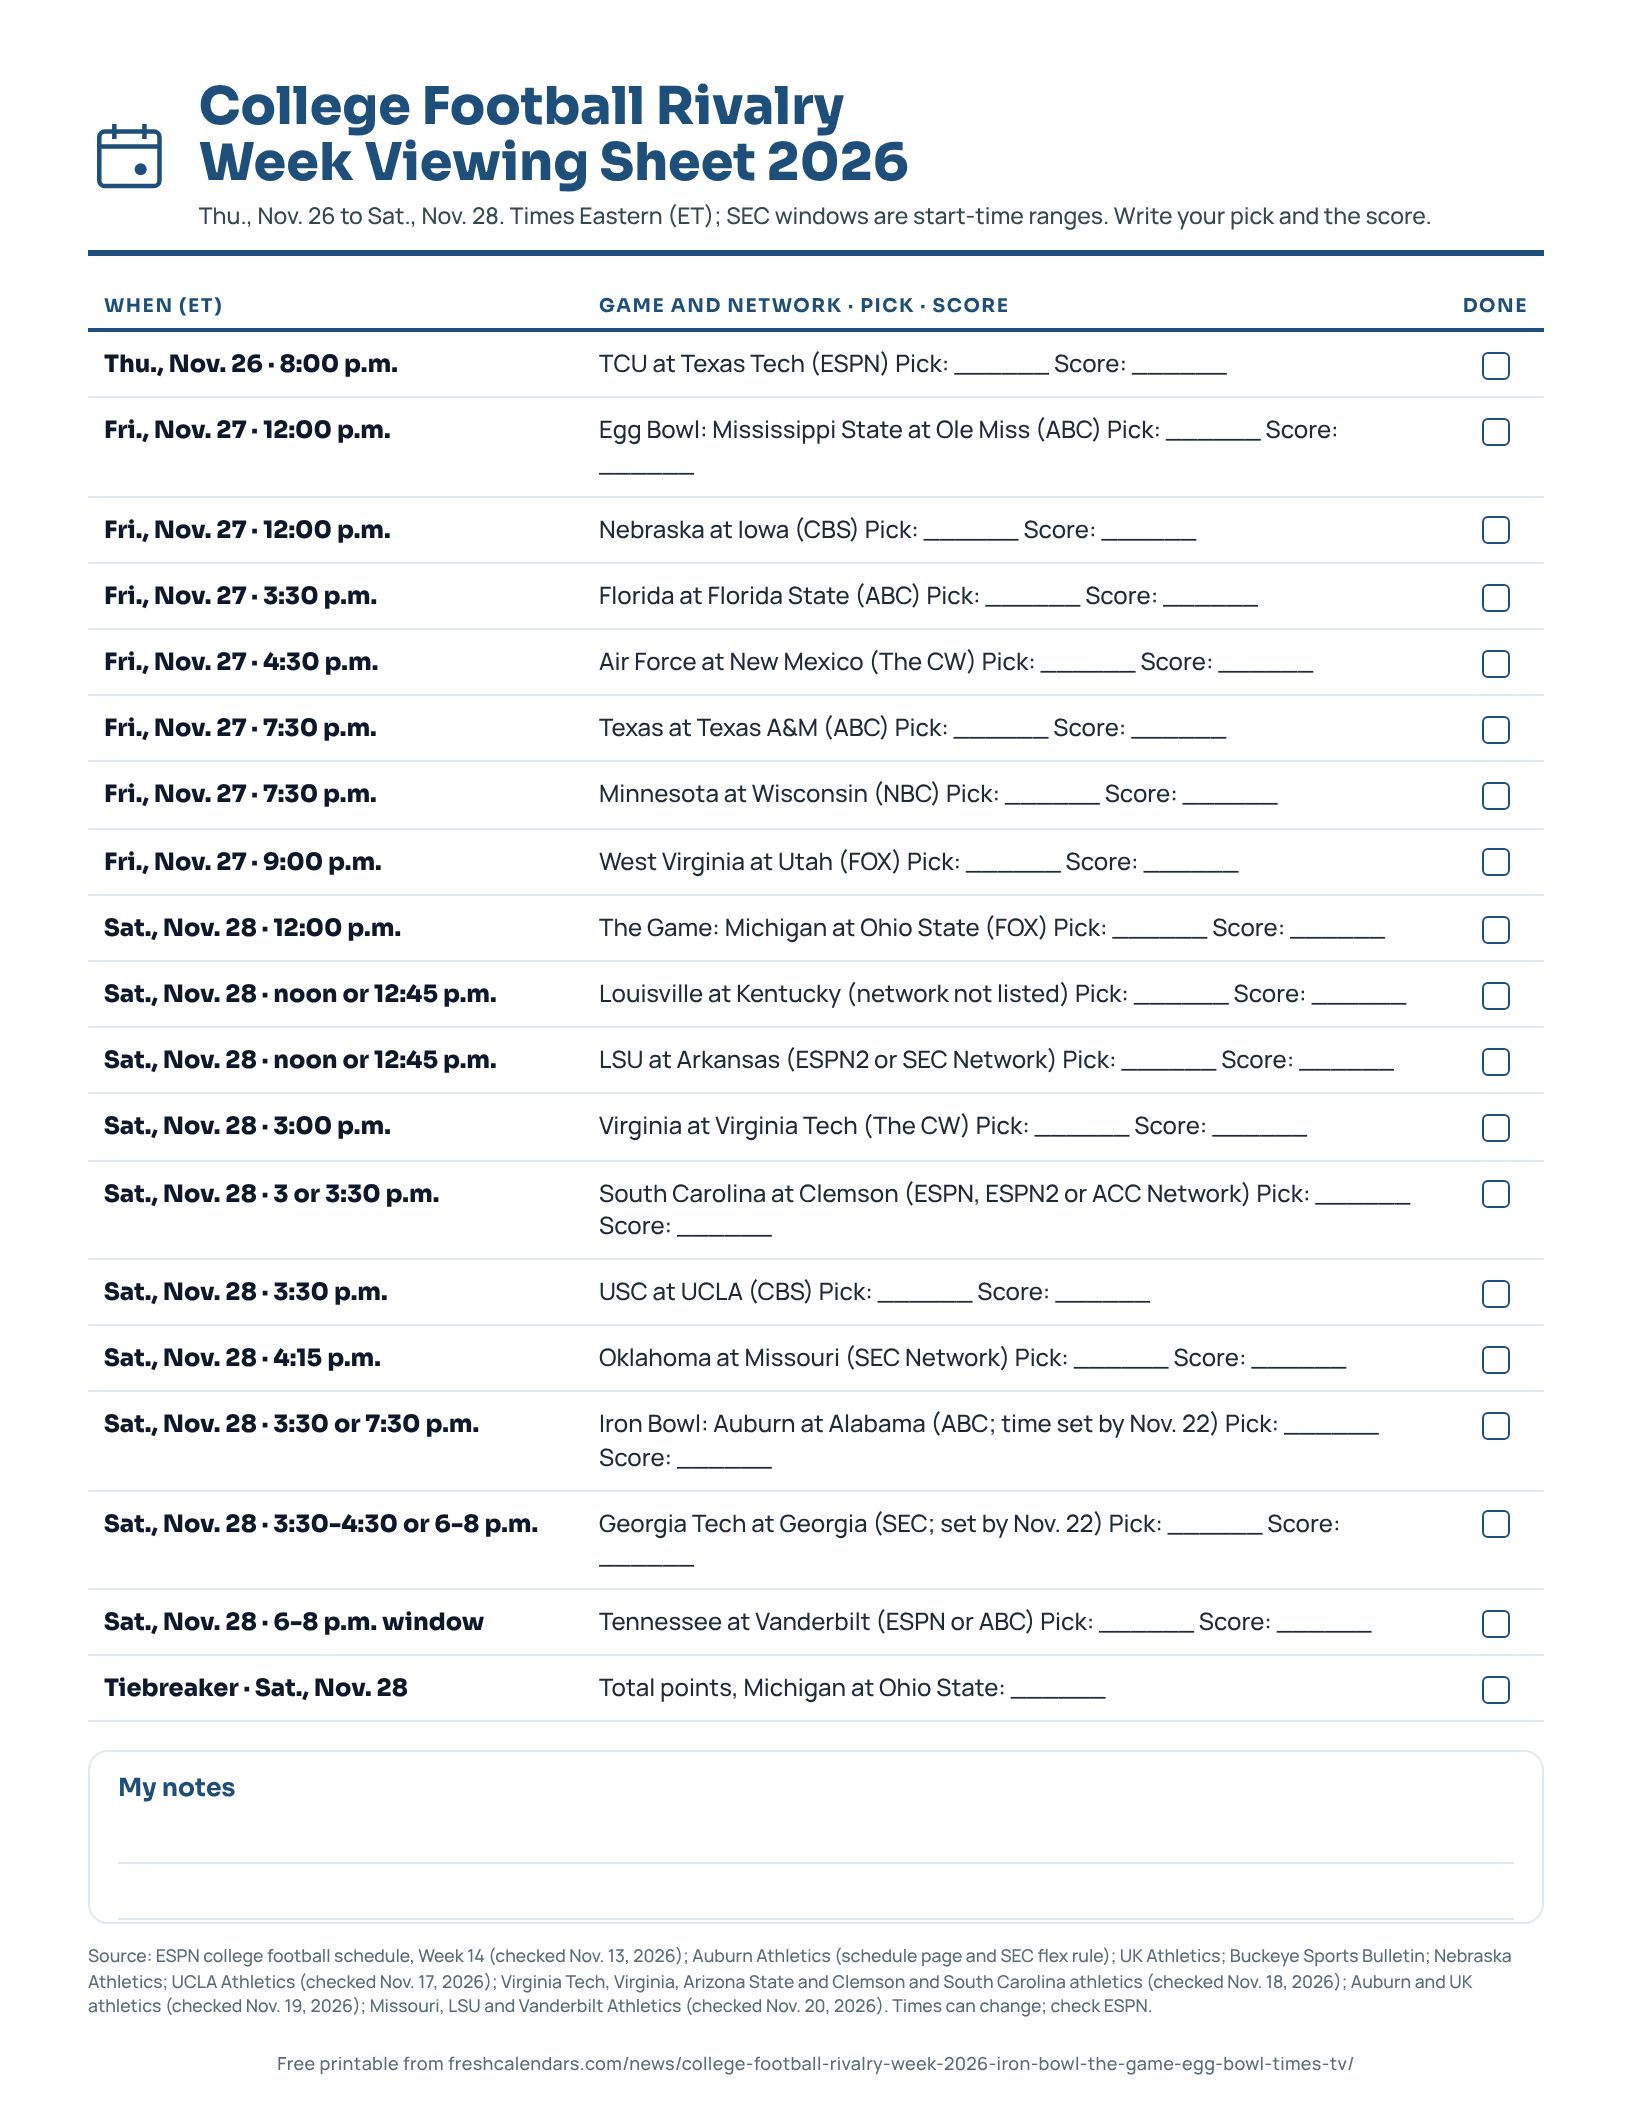
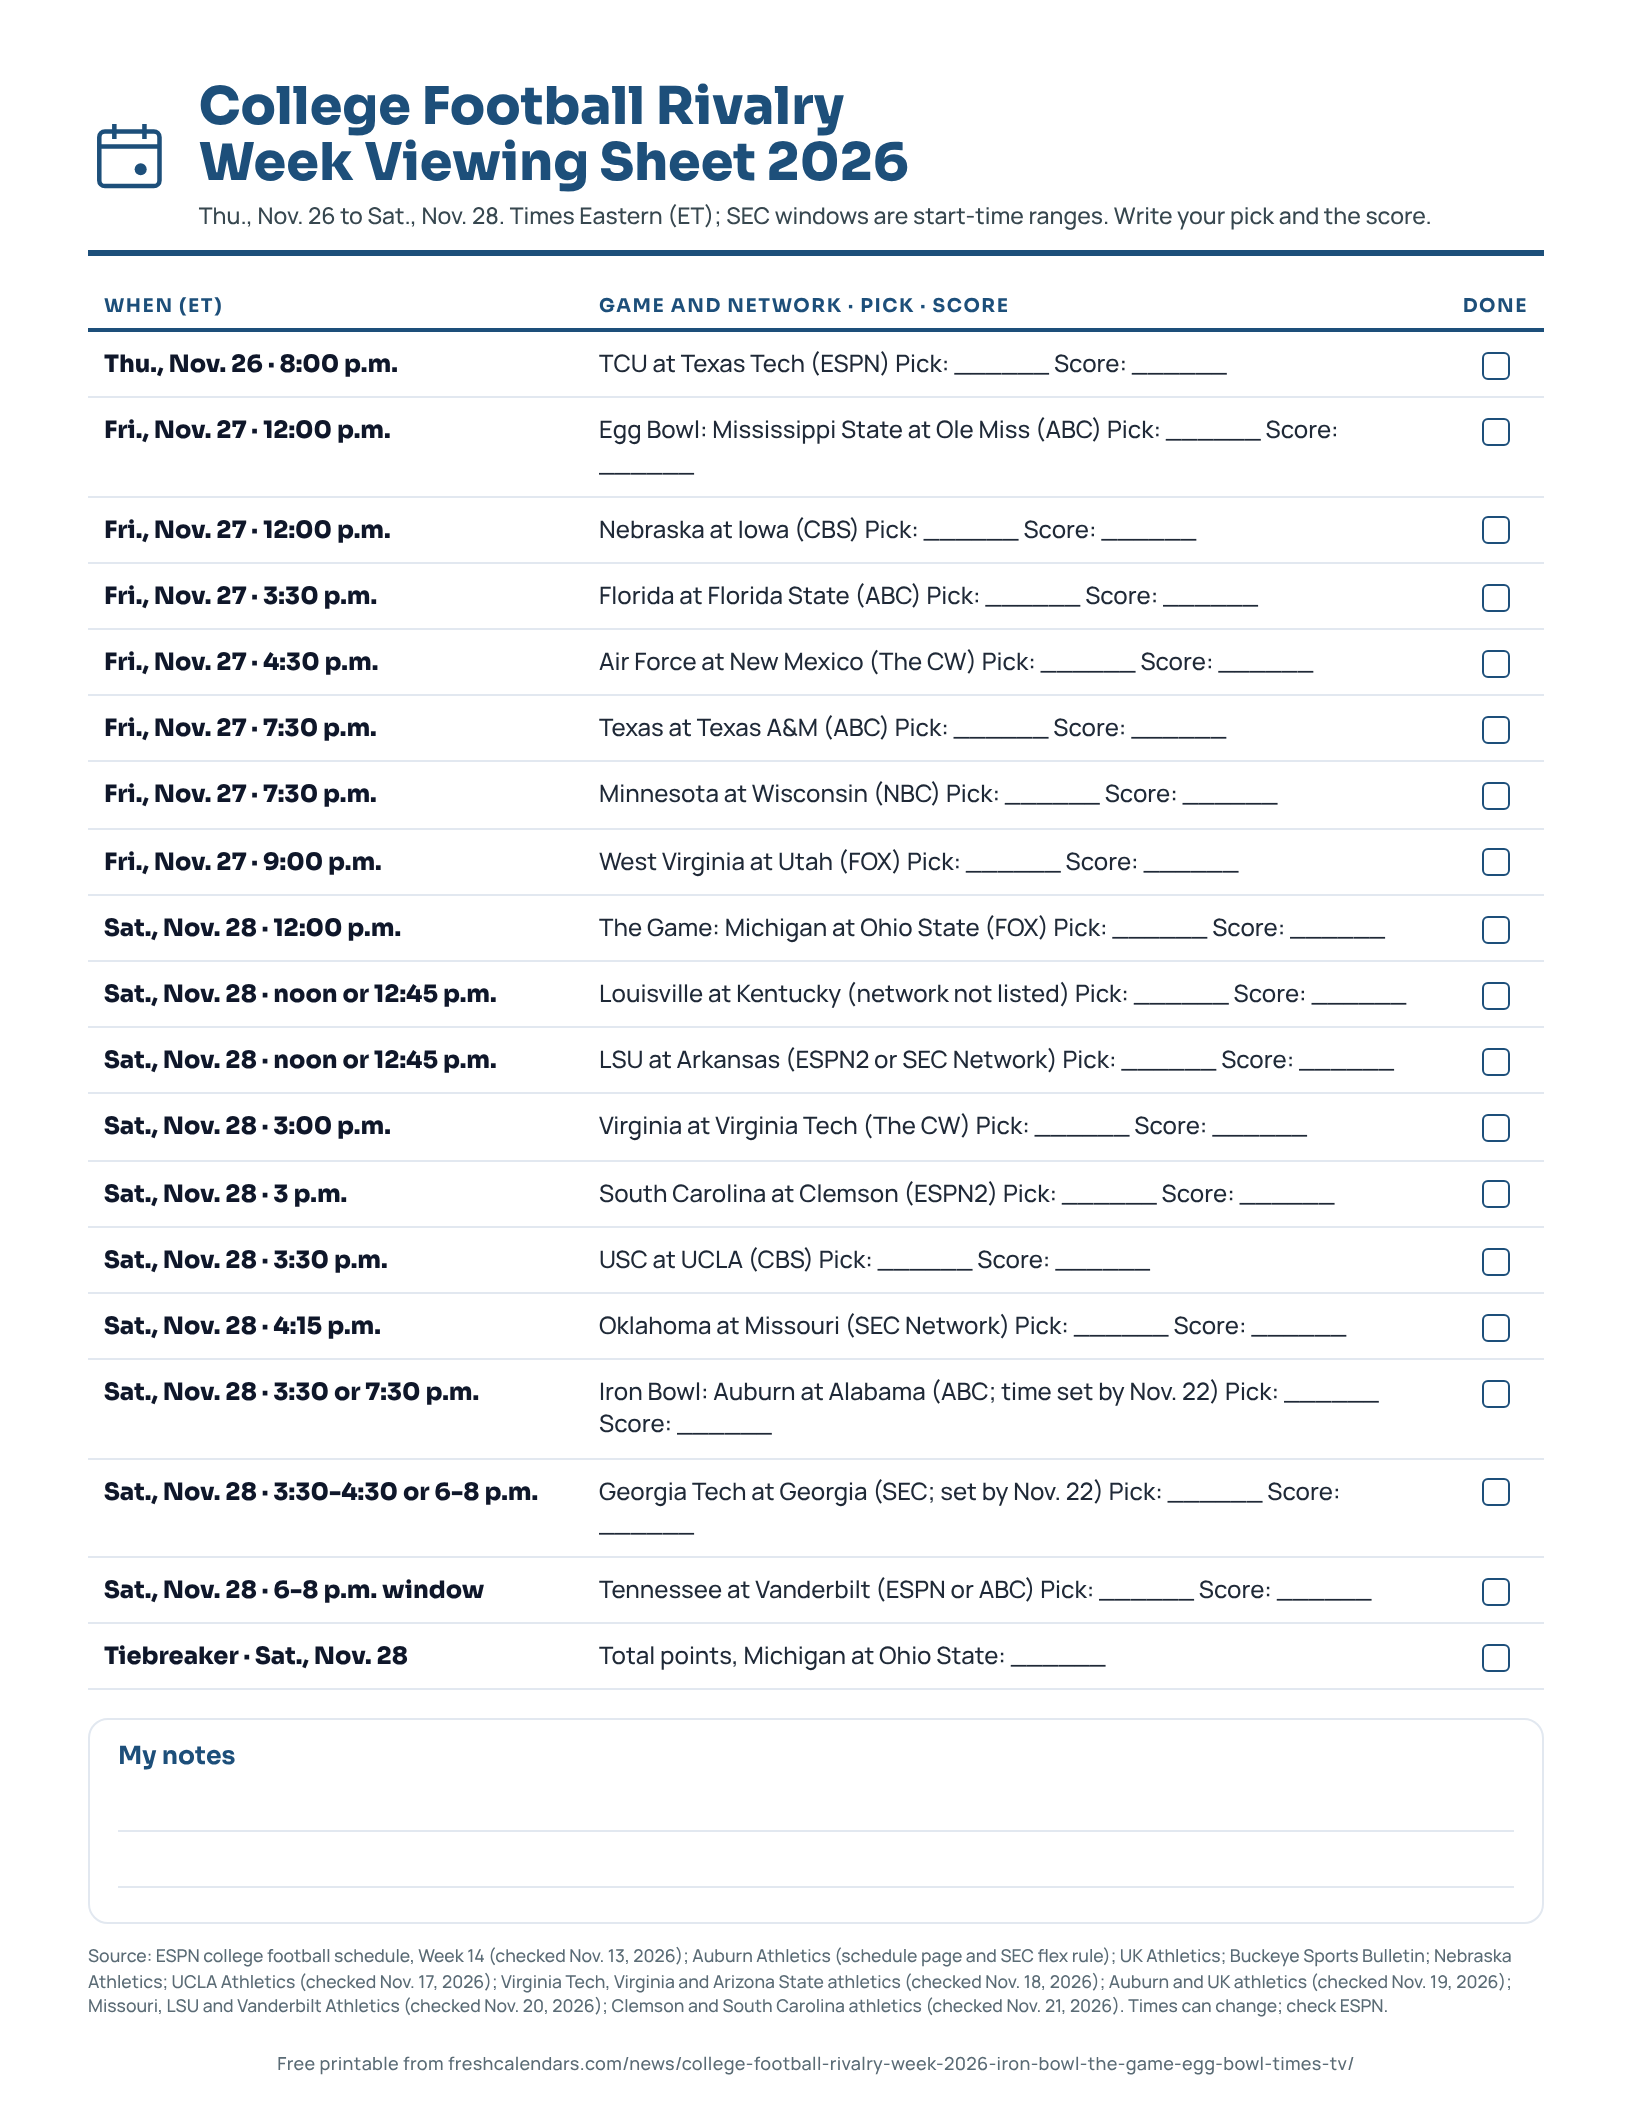
[U] 1 update: Rivalry Week 2026, Clemson-South Carolina 3 p.m. ET on ESPN2 (#845)
South Carolina at Clemson set at 3 p.m. ET on ESPN2 (Clemson and South
Carolina schedule pages, Nov. 21); table, printable and sources updated.

Claude-Session: https://claude.ai/code/session_01YBn8zbJudbuyReYMdQdUX6

diff --git a/docs/desk/w3.md b/docs/desk/w3.md
@@ -1048,7 +1048,7 @@ Time and clock changes, sky events, calendar guides, all sports, entertainment, 
 
 - [x] **upd-new-movies-in-theaters-december-2026-release-dates-avengers-doomsday-dune** (done 2026-11-18, Jumanji: Open World added for Fri. Dec. 25 (wide, moved from Dec. 11) from TheWrap Apr. 13 and Bleeding Cool Mar. 24 because sonypictures.com blocks automated access; table, summary, description, FAQ, Christmas week list, key dates and printable now list seven films; other six dates rechecked on studio pages, unchanged) Self-found update: date in the next 30 days, `updatedAt` older than 14 days.
 
-- [ ] **upd-college-football-rivalry-week-2026-iron-bowl-kickoff** (last done 2026-11-20 07:25 ET: LSU at Arkansas noon ET on ESPN2 or 12:45 p.m. ET on SEC Network (lsusports.net, not final), Oklahoma at Missouri 4:15 p.m. ET on SEC Network (mutigers.com "3:15 PM CST"), Tennessee at Vanderbilt network ESPN or ABC (vucommodores.com, time zone not stated so window kept) in SEC table, Saturday slate and printable; Iron Bowl still "2:30 or 6:30 PM CST" flex on ABC, South Carolina-Clemson, Louisville-Kentucky, Purdue-Indiana, Georgia Tech-Georgia unchanged (rolltide.com, georgiadogs.com, iuhoosiers.com did not render); recheck from Sun. Nov. 22; earlier 2026-11-19 03:30 ET: Iron Bowl 3:30 or 7:30 p.m. ET on ABC from the auburntigers.com schedule page ("2:30 or 6:30 PM CST", ABC logo) replaces the ESPN 3:30-4:30/6-8 p.m. window, Louisville at Kentucky noon or 12:45 p.m. ET (ukathletics.com, network not listed) in both tables, summary, FAQ, caption, lede and printable; Georgia Tech-Georgia, the other SEC windows, Purdue-Indiana and South Carolina-Clemson unchanged on official pages (SEC windows in one newsroom only); recheck from Sun. Nov. 22; earlier 2026-11-18 19:30 ET: Virginia at Virginia Tech 3 p.m. ET on The CW (hokiesports.com, virginiasports.com), Arizona State at Arizona 7 p.m. MST / 9 p.m. ET, network not listed (thesundevils.com), South Carolina at Clemson "3 or 3:30 p.m.", ESPN, ESPN2 or ACC Network, not final (clemsontigers.com, gamecocksonline.com) in rivalry table, Saturday slate and printable; Iron Bowl still "2:30 or 6:30 PM CST" flex on auburntigers.com, Georgia Tech-Georgia and Purdue-Indiana still no time; recheck from Sun. Nov. 22; earlier 2026-11-17 21:24 ET: USC at UCLA set for 12:30 p.m. PT (3:30 p.m. ET) on CBS at the Rose Bowl per uclabruins.com schedule page, added to rivalry table, Saturday slate, Notre Dame-USC note, printable and sources; Iron Bowl and Georgia Tech-Georgia still in the flex window (auburntigers.com schedule "2:30 or 6:30 PM CST"), South Carolina-Clemson still TBA on gamecocksonline.com; secsports.com and ESPN schedule did not render; recheck from Sun. Nov. 22) (research desk, 2026-11-17) Add the Iron Bowl kickoff time and network to the rivalry-week story once the SEC sets them.
+- [ ] **upd-college-football-rivalry-week-2026-iron-bowl-kickoff** (last done 2026-11-21 17:25 ET: South Carolina at Clemson set at 3 p.m. ET on ESPN2 (clemsontigers.com "3:00 PM EST", ESPN2; gamecocksonline.com "3:00 pm") in rivalry table and printable; Iron Bowl still "2:30 or 6:30 PM CST" on ABC, Vanderbilt "6 or 6:30 p.m." (no time zone, window kept), Louisville-Kentucky and LSU-Arkansas unchanged, rolltide.com, georgiadogs.com and ESPN week 14 did not render; recheck from Sun. Nov. 22; earlier 2026-11-20 07:25 ET: LSU at Arkansas noon ET on ESPN2 or 12:45 p.m. ET on SEC Network (lsusports.net, not final), Oklahoma at Missouri 4:15 p.m. ET on SEC Network (mutigers.com "3:15 PM CST"), Tennessee at Vanderbilt network ESPN or ABC (vucommodores.com, time zone not stated so window kept) in SEC table, Saturday slate and printable; Iron Bowl still "2:30 or 6:30 PM CST" flex on ABC, South Carolina-Clemson, Louisville-Kentucky, Purdue-Indiana, Georgia Tech-Georgia unchanged (rolltide.com, georgiadogs.com, iuhoosiers.com did not render); recheck from Sun. Nov. 22; earlier 2026-11-19 03:30 ET: Iron Bowl 3:30 or 7:30 p.m. ET on ABC from the auburntigers.com schedule page ("2:30 or 6:30 PM CST", ABC logo) replaces the ESPN 3:30-4:30/6-8 p.m. window, Louisville at Kentucky noon or 12:45 p.m. ET (ukathletics.com, network not listed) in both tables, summary, FAQ, caption, lede and printable; Georgia Tech-Georgia, the other SEC windows, Purdue-Indiana and South Carolina-Clemson unchanged on official pages (SEC windows in one newsroom only); recheck from Sun. Nov. 22; earlier 2026-11-18 19:30 ET: Virginia at Virginia Tech 3 p.m. ET on The CW (hokiesports.com, virginiasports.com), Arizona State at Arizona 7 p.m. MST / 9 p.m. ET, network not listed (thesundevils.com), South Carolina at Clemson "3 or 3:30 p.m.", ESPN, ESPN2 or ACC Network, not final (clemsontigers.com, gamecocksonline.com) in rivalry table, Saturday slate and printable; Iron Bowl still "2:30 or 6:30 PM CST" flex on auburntigers.com, Georgia Tech-Georgia and Purdue-Indiana still no time; recheck from Sun. Nov. 22; earlier 2026-11-17 21:24 ET: USC at UCLA set for 12:30 p.m. PT (3:30 p.m. ET) on CBS at the Rose Bowl per uclabruins.com schedule page, added to rivalry table, Saturday slate, Notre Dame-USC note, printable and sources; Iron Bowl and Georgia Tech-Georgia still in the flex window (auburntigers.com schedule "2:30 or 6:30 PM CST"), South Carolina-Clemson still TBA on gamecocksonline.com; secsports.com and ESPN schedule did not render; recheck from Sun. Nov. 22) (research desk, 2026-11-17) Add the Iron Bowl kickoff time and network to the rivalry-week story once the SEC sets them.
   Query: iron bowl 2026 time, rivalry week 2026 tv schedule. Category `sports`, byline `jessica-hartwell`. By Nov 23 (the SEC sets it by Sun. Nov. 22, six days before the game).
   Add: story `college-football-rivalry-week-2026-iron-bowl-the-game-egg-bowl-times-tv` still shows the Iron Bowl (Auburn at Alabama, Sat. Nov. 28) as "3:30-4:30 or 6-8 p.m., set by Nov. 22". Auburn Athletics (https://auburntigers.com/news/2026/06/10, June 10, 2026): "the Iron Bowl at Alabama on Nov. 28 both carry flex designations", time and network named no later than six days before. On the day the SEC or rolltide.com/auburntigers.com posts it, replace the window in the table, card, printable, FAQ and key dates. Check the other dashes the same way (Georgia-Georgia Tech, Bedlam). Unchanged and confirmed: The Game noon ET on FOX (ohiostatebuckeyes.com, May 11, 2026); Egg Bowl Fri. Nov. 27, 11 a.m. CT (noon ET), ABC; Florida State-Florida Fri. Nov. 27, 3:30 p.m. ET (seminoles.com, May 12, 2026). Note: the Apple Cup moved to Sept. 6, 2026, so it must not appear among Nov. 28 games.
   Demand: the story keys on "Iron Bowl 2026 time", and the Thanksgiving football page from the same week drew 400 readers; format one-event time (GROW, 14.6 readers per story); cost low

diff --git a/apps/news/src/content/articles/2026/11/college-football-rivalry-week-2026-iron-bowl-the-game-egg-bowl-times-tv.md b/apps/news/src/content/articles/2026/11/college-football-rivalry-week-2026-iron-bowl-the-game-egg-bowl-times-tv.md
@@ -3,7 +3,7 @@ title: "College Football Rivalry Week 2026: Egg Bowl Nov. 27, Game Nov. 28"
 description: "College football Rivalry Week 2026 is Nov. 26-28: Michigan at Ohio State at noon ET on FOX, the Egg Bowl Friday. Iron Bowl time not yet set. Viewing sheet."
 type: news
 publishedAt: "2026-11-01T01:30:00-05:00"
-updatedAt: "2026-11-20T07:20:00-05:00"
+updatedAt: "2026-11-21T17:25:00-05:00"
 authors: [jessica-hartwell]
 category: sports
 keywords: ["rivalry week 2026 schedule", "Iron Bowl 2026 time", "Ohio State Michigan 2026 time", "Egg Bowl 2026", "Black Friday college football 2026"]
@@ -33,14 +33,14 @@ assets:
       - ["Sat., Nov. 28 · noon or 12:45 p.m.", "Louisville at Kentucky (network not listed)  Pick: ______  Score: ______"]
       - ["Sat., Nov. 28 · noon or 12:45 p.m.", "LSU at Arkansas (ESPN2 or SEC Network)  Pick: ______  Score: ______"]
       - ["Sat., Nov. 28 · 3:00 p.m.", "Virginia at Virginia Tech (The CW)  Pick: ______  Score: ______"]
-      - ["Sat., Nov. 28 · 3 or 3:30 p.m.", "South Carolina at Clemson (ESPN, ESPN2 or ACC Network)  Pick: ______  Score: ______"]
+      - ["Sat., Nov. 28 · 3 p.m.", "South Carolina at Clemson (ESPN2)  Pick: ______  Score: ______"]
       - ["Sat., Nov. 28 · 3:30 p.m.", "USC at UCLA (CBS)  Pick: ______  Score: ______"]
       - ["Sat., Nov. 28 · 4:15 p.m.", "Oklahoma at Missouri (SEC Network)  Pick: ______  Score: ______"]
       - ["Sat., Nov. 28 · 3:30 or 7:30 p.m.", "Iron Bowl: Auburn at Alabama (ABC; time set by Nov. 22)  Pick: ______  Score: ______"]
       - ["Sat., Nov. 28 · 3:30-4:30 or 6-8 p.m.", "Georgia Tech at Georgia (SEC; set by Nov. 22)  Pick: ______  Score: ______"]
       - ["Sat., Nov. 28 · 6-8 p.m. window", "Tennessee at Vanderbilt (ESPN or ABC)  Pick: ______  Score: ______"]
       - ["Tiebreaker · Sat., Nov. 28", "Total points, Michigan at Ohio State: ______"]
-    note: "Source: ESPN college football schedule, Week 14 (checked Nov. 13, 2026); Auburn Athletics (schedule page and SEC flex rule); UK Athletics; Buckeye Sports Bulletin; Nebraska Athletics; UCLA Athletics (checked Nov. 17, 2026); Virginia Tech, Virginia, Arizona State and Clemson and South Carolina athletics (checked Nov. 18, 2026); Auburn and UK athletics (checked Nov. 19, 2026); Missouri, LSU and Vanderbilt Athletics (checked Nov. 20, 2026). Times can change; check ESPN."
+    note: "Source: ESPN college football schedule, Week 14 (checked Nov. 13, 2026); Auburn Athletics (schedule page and SEC flex rule); UK Athletics; Buckeye Sports Bulletin; Nebraska Athletics; UCLA Athletics (checked Nov. 17, 2026); Virginia Tech, Virginia and Arizona State athletics (checked Nov. 18, 2026); Auburn and UK athletics (checked Nov. 19, 2026); Missouri, LSU and Vanderbilt Athletics (checked Nov. 20, 2026); Clemson and South Carolina athletics (checked Nov. 21, 2026). Times can change; check ESPN."
     description: "A one-page college football Rivalry Week 2026 sheet with Nov. 26-28 games, Eastern Time kickoffs or SEC windows, networks, and blanks for picks and scores."
     alt: "Printable college football Rivalry Week 2026 viewing sheet listing Nov. 26-28 games with time, network and blanks for picks and scores"
 hero:
@@ -112,11 +112,11 @@ sources:
   - title: "Football 2026-27 - Clemson University Athletics"
     url: "https://clemsontigers.com/sports/football/schedule"
     publisher: "Clemson Athletics"
-    date: "2026-11-18"
+    date: "2026-11-21"
   - title: "Football Schedule 2026 - University of South Carolina Athletics"
     url: "https://gamecocksonline.com/sports/football/schedule"
     publisher: "South Carolina Athletics"
-    date: "2026-11-18"
+    date: "2026-11-21"
   - title: "2026 Football Schedule - University of Missouri Athletics Official Website"
     url: "https://mutigers.com/sports/football/schedule"
     publisher: "Missouri Athletics"
@@ -174,7 +174,7 @@ draft: false
 
 ## Which rivalry games are played Nov. 26-28, 2026?
 
-ESPN's schedule (checked Nov. 13, 2026) lists these rivalry games with their dates, sites and times. A dash means the time or network is not yet announced. The Virginia, Arizona State and Clemson and South Carolina times come from the schools' own schedule pages, checked Nov. 18, 2026; the Auburn and Kentucky entries come from their schedule pages, checked Nov. 19, 2026.
+ESPN's schedule (checked Nov. 13, 2026) lists these rivalry games with their dates, sites and times. A dash means the time or network is not yet announced. The Virginia and Arizona State times come from the schools' own schedule pages, checked Nov. 18, 2026; the Clemson and South Carolina time comes from their schedule pages, checked Nov. 21, 2026; the Auburn and Kentucky entries come from their schedule pages, checked Nov. 19, 2026.
 
 | Rivalry | Game | Date | Site | Time (ET) | TV |
 |---|---|---|---|---|---|
@@ -188,7 +188,7 @@ ESPN's schedule (checked Nov. 13, 2026) lists these rivalry games with their dat
 | Clean, Old-Fashioned Hate | Georgia Tech at Georgia | Sat., Nov. 28 | Sanford Stadium, Athens | 3:30-4:30 p.m. or 6-8 p.m. window | - |
 | Governor's Cup | Louisville at Kentucky | Sat., Nov. 28 | Kroger Field, Lexington | Noon or 12:45 p.m. (not final) | not listed |
 | Victory Bell | University of Southern California (USC) at University of California, Los Angeles (UCLA) | Sat., Nov. 28 | Rose Bowl, Pasadena | 3:30 p.m. | CBS |
-| Palmetto Bowl | South Carolina at Clemson | Sat., Nov. 28 | Memorial Stadium, Clemson | 3 or 3:30 p.m. (not final) | ESPN, ESPN2 or Atlantic Coast Conference (ACC) Network (not final) |
+| Palmetto Bowl | South Carolina at Clemson | Sat., Nov. 28 | Memorial Stadium, Clemson | 3 p.m. | ESPN2 |
 | Old Oaken Bucket | Purdue at Indiana | Sat., Nov. 28 | Memorial Stadium, Bloomington | - | - |
 | Territorial Cup | Arizona State at Arizona | Sat., Nov. 28 | Casino Del Sol Stadium, Tucson | 9 p.m. (7 p.m. MST) | - |
 | Commonwealth Clash | Virginia at Virginia Tech | Sat., Nov. 28 | Lane Stadium, Blacksburg | 3 p.m. | The CW |
